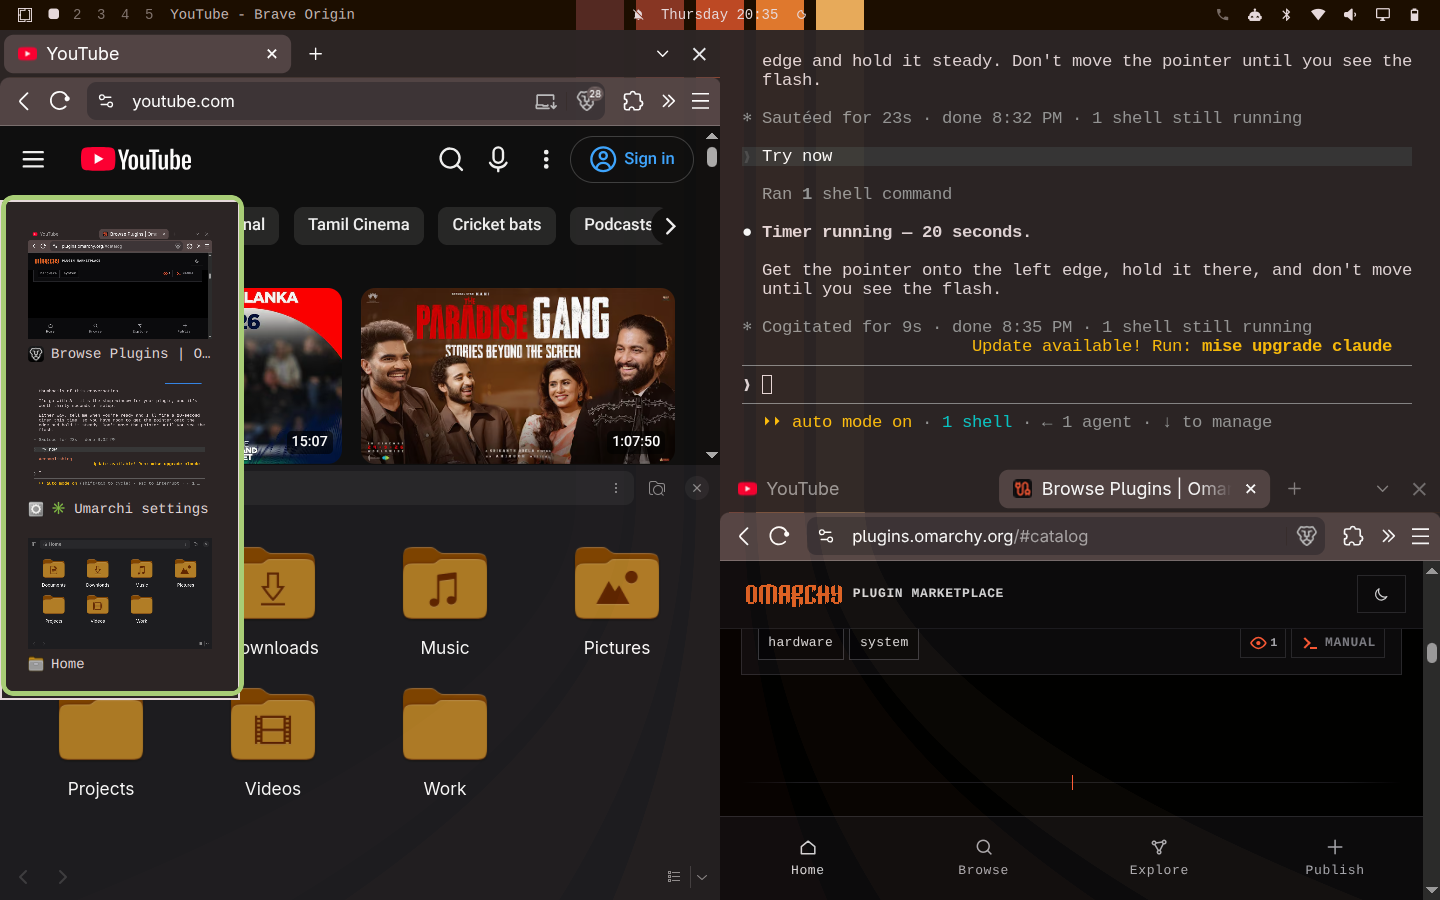
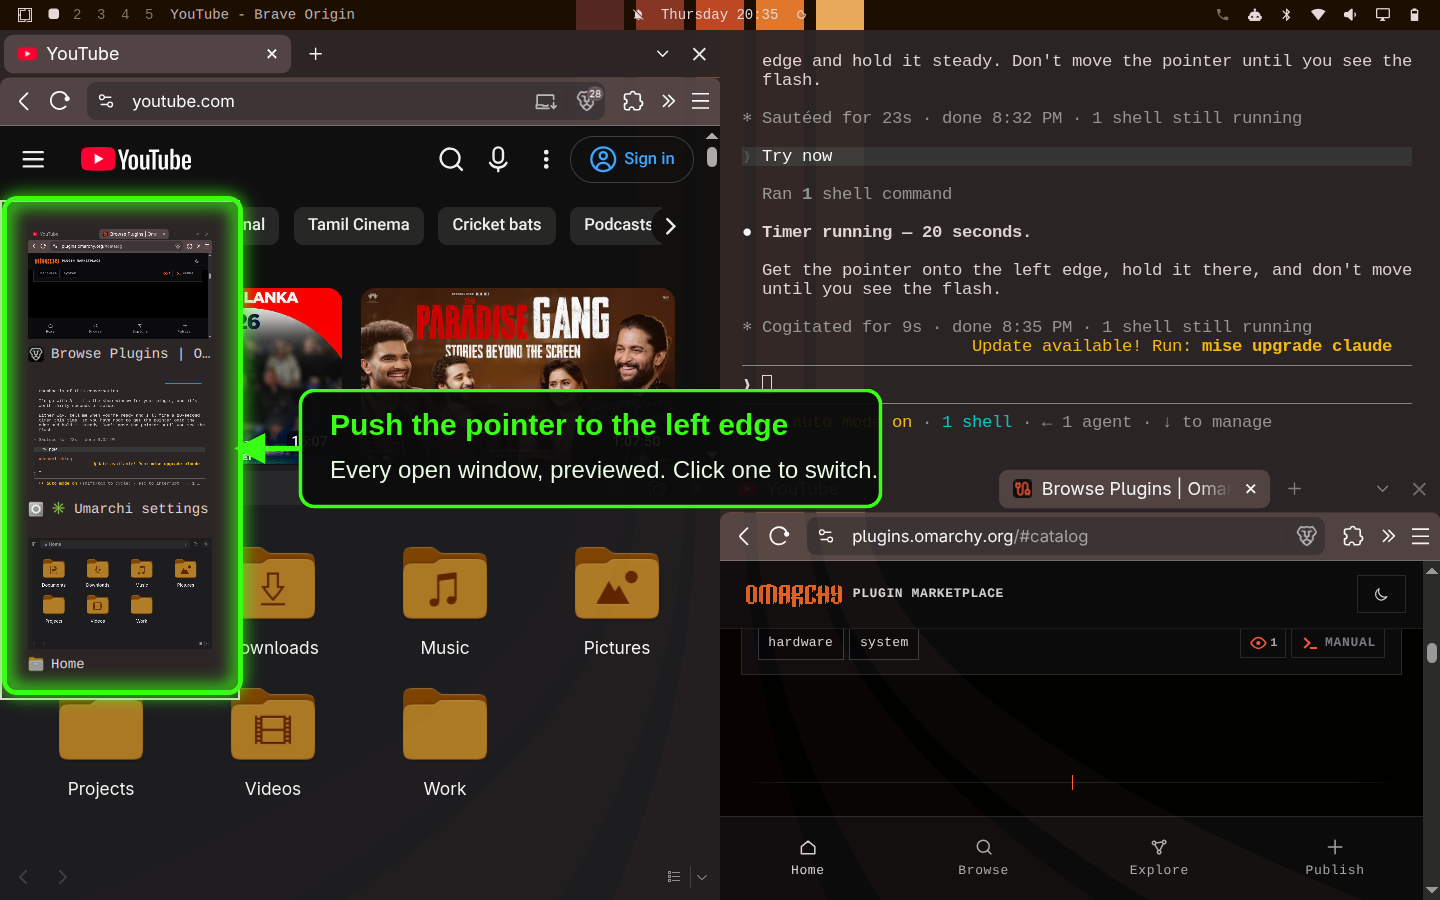
Annotate the preview and rewrite the README for clarity
Preview now uses a fluorescent outline with a glow and a labelled arrow pointing
at the drawer, so the card reads at a glance rather than asking the viewer to
find the drawer in a desktop screenshot.

README leads with what it does in plain terms, states that install is the only
step, and documents requirements, settings, performance and the fact that the
plugin writes no configuration files.

Claude-Session: https://claude.ai/code/session_01GAitiueNd6YXgzZmfSuDuJ

Changed region(s): [[0.0, 0.1867, 0.625, 0.8089]]

diff --git a/README.md b/README.md
@@ -2,16 +2,23 @@
 
 A Stage Manager-style window switcher for the [Omarchy](https://omarchy.org/) shell.
 
-![Stage Drawer](preview.png)
+![Stage Drawer — push the pointer to the left edge and a drawer slides in with a preview of every open window](preview.png)
 
-Push the pointer against the left edge of the screen and a drawer slides in with
-a preview of every other open window — across all workspaces, including windows
-hidden by `show-desktop`. Click one to switch to it and make it full width (or
-fullscreen, if that's how you were already working). A **Back to tiles** button
-restores the normal tiled layout.
+## What it does
 
-It works over full-width and fullscreen windows, so you can get back out of a
-maximized app without reaching for a keybinding.
+Push the pointer against the **left edge of the screen**. A drawer slides in
+showing a preview of every open window. Click one to switch to it.
+
+That's the whole idea. In detail:
+
+- **It shows every window**, across all workspaces — including ones hidden by
+  `show-desktop`, which are otherwise hard to get back to.
+- **Clicking a window switches to it and makes it full width.** If you were
+  already in fullscreen, it opens fullscreen instead, so your mode is preserved.
+- **A "Back to tiles" button** returns everything on the workspace to the normal
+  tiled layout.
+- **It works on top of full-width and fullscreen windows**, so you can get out of
+  a maximized app without reaching for a keybinding.
 
 ## Install
 
@@ -19,13 +26,16 @@ maximized app without reaching for a keybinding.
 omarchy plugin add https://github.com/sumanthmukkala/omarchy-stage-drawer --enable
 ```
 
-To update later:
+That is all — no config file to edit, no keybinding to set. Move the pointer to
+the left edge and it works.
+
+**Update:**
 
 ```bash
 omarchy plugin update io.github.sumanthmukkala.stage-drawer
 ```
 
-To remove:
+**Uninstall:**
 
 ```bash
 omarchy plugin remove io.github.sumanthmukkala.stage-drawer
@@ -33,52 +43,57 @@ omarchy plugin remove io.github.sumanthmukkala.stage-drawer
 
 ## Requirements
 
-- Omarchy with `omarchy-shell` (Quickshell)
-- Hyprland
-- `jq` and `hyprctl` (both standard on Omarchy)
+| | |
+| --- | --- |
+| Omarchy | 4.x (Quattro), with `omarchy-shell` |
+| Compositor | Hyprland |
+| Commands | `hyprctl`, `jq` — both ship with Omarchy |
 
-## Built to stay cheap
+No other dependencies. Nothing is downloaded at runtime.
 
-It was written for an older Intel MacBook Air, so it avoids the things that make
-this kind of overlay expensive:
+## Settings
 
-- The trigger is an **event-driven hover strip**, not a timer polling the cursor.
-- Window previews are a **single captured frame** taken when the drawer opens
-  (`live: false`), not live-updating thumbnails.
-- Previews are **destroyed when the drawer closes**, so nothing is retained while
-  the drawer is idle.
+There is no config file. To change how it feels, edit the constants at the top of
+`Drawer.qml`:
 
-It also leaves an 80px gap at the bottom of the edge strip so it doesn't fight a
-bottom-left hot corner, if you use one.
+| Property | Default | What it controls |
+| --- | --- | --- |
+| `drawerWidth` | `240` | Width of the drawer, in pixels |
+| `edgeWidth` | `2` | How many pixels of screen edge trigger it |
+| `edgeBottomGap` | `80` | Dead zone at the bottom, so it doesn't fight a hot corner |
+| `openDelayMs` | `120` | How long you must hover before it opens |
+| `closeDelayMs` | `300` | Grace period before it closes again |
+
+Changes apply the moment you save. No restart.
+
+## Performance
+
+Written for an older Intel MacBook Air, so it avoids the expensive parts of this
+kind of overlay:
+
+- The edge trigger is **event-driven**, not a timer polling the cursor position.
+- Each preview is **one still frame**, captured when the drawer opens, rather
+  than a live-updating thumbnail.
+- Previews are **destroyed when the drawer closes**, so nothing is held in memory
+  while it sits idle.
 
 ## Theming
 
-The drawer draws from `qs.Commons` (`Color.menu`, `Style.cornerRadius`,
-`Style.font`, …), so it follows whatever Omarchy theme is active. There is
-nothing to configure.
-
-## Tuning
-
-The constants at the top of `Drawer.qml` are the knobs worth touching:
-
-| Property | Default | What it does |
-| --- | --- | --- |
-| `drawerWidth` | `240` | Width of the drawer panel |
-| `edgeWidth` | `2` | How many pixels of screen edge arm the trigger |
-| `edgeBottomGap` | `80` | Dead zone at the bottom, to spare a hot corner |
-| `openDelayMs` | `120` | Hover time before it slides in |
-| `closeDelayMs` | `300` | Grace period before it slides out |
-
-Edits apply on save — the plugin is not `keepLoaded`, so no shell restart needed.
+It reads `Color` and `Style` from `qs.Commons`, so it follows whatever Omarchy
+theme is active. Nothing to configure.
 
 ## How it works
 
-Two pieces:
+Two files:
 
-- **`Drawer.qml`** — the UI. The edge strip, the slide animation, the previews.
-- **`stage-switch`** — a small bash helper the QML shells out to. Hyprland window
-  manipulation goes through `hyprctl`, so focus changes, fullscreen state, and
-  pulling windows back off special workspaces happen here.
+- **`Drawer.qml`** — the interface: the edge trigger, the slide animation, and
+  the window previews.
+- **`stage-switch`** — a small bash helper. Hyprland window management happens
+  through `hyprctl`, so focus changes, fullscreen state, and recovering windows
+  from special workspaces are done here.
+
+The plugin writes no configuration files. It only queries and dispatches through
+`hyprctl`, which changes live window state, not anything on disk.
 
 ## License
 
